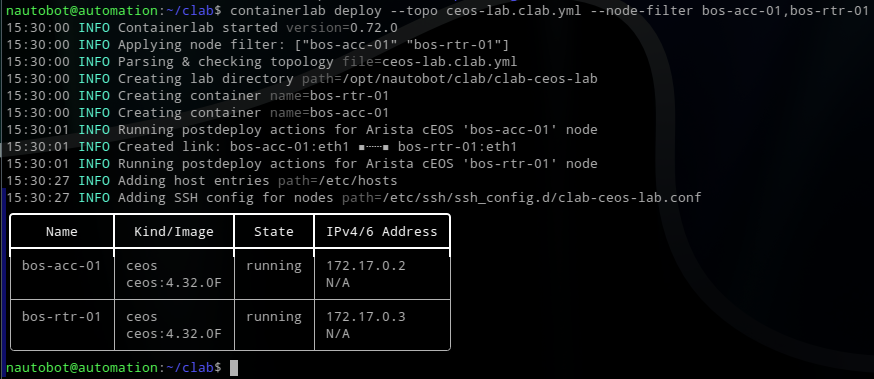
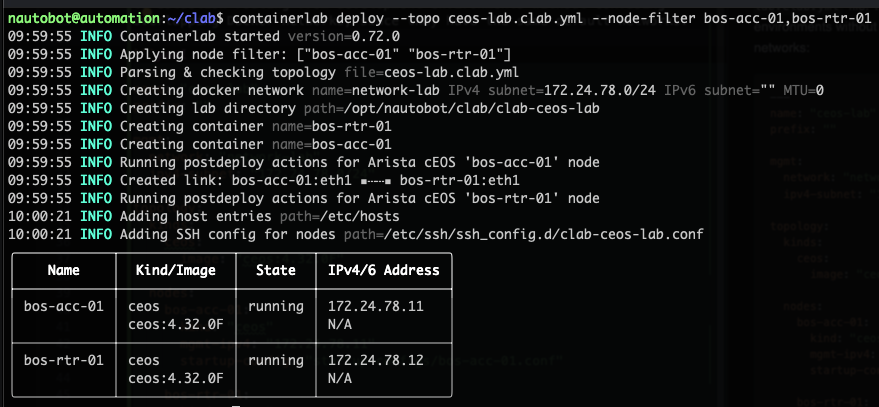
Customized containerlab instances

Changed region(s): [[0.0, 0.0, 1.0, 1.0]]

diff --git a/nautobot/README.md b/nautobot/README.md
@@ -17,12 +17,54 @@ GRANT CREATE ON SCHEMA public TO nautobot;
 
 ### Virtual network devices
 
+For static IP addresses to containerlab devices and unique segment,
+customize the `ceos-lab.clab.yml` file. This also provides the ability
+to establish routing from development environments without confusing
+overlapping Docker networks, since they have the same default networks:
+
+```yaml
+---
+name: "ceos-lab"
+prefix: ""
+
+mgmt:
+  network: "network-lab"
+  ipv4-subnet: "172.24.78.0/24"
+
+topology:
+  kinds:
+    ceos:
+      image: "ceos:4.32.0F"
+
+  nodes:
+    bos-acc-01:
+      kind: "ceos"
+      mgmt-ipv4: "172.24.78.11"
+      startup-config: "startup-configs/bos-acc-01.conf"
+
+    bos-rtr-01:
+      kind: "ceos"
+      mgmt-ipv4: "172.24.78.12"
+      startup-config: "startup-configs/bos-rtr-01.conf"
+```
+
+Startup and shutdown:
+
 ```shell
 containerlab deploy --topo ceos-lab.clab.yml --node-filter bos-acc-01,bos-rtr-01
 containerlab destroy --topo ceos-lab.clab.yml --node-filter bos-acc-01,bos-rtr-01
 ```
 
 ![containerlab](images/containerlab.png)
+
+### For streaming telemetry
+
+```text
+ceos-02(config)#management api gnmi
+ceos-02(config-mgmt-api-gnmi)#transport grpc default
+```
+
+Interacting directly with the devices using Netmiko:
 
 ```python
 from netmiko import ConnectHandler
